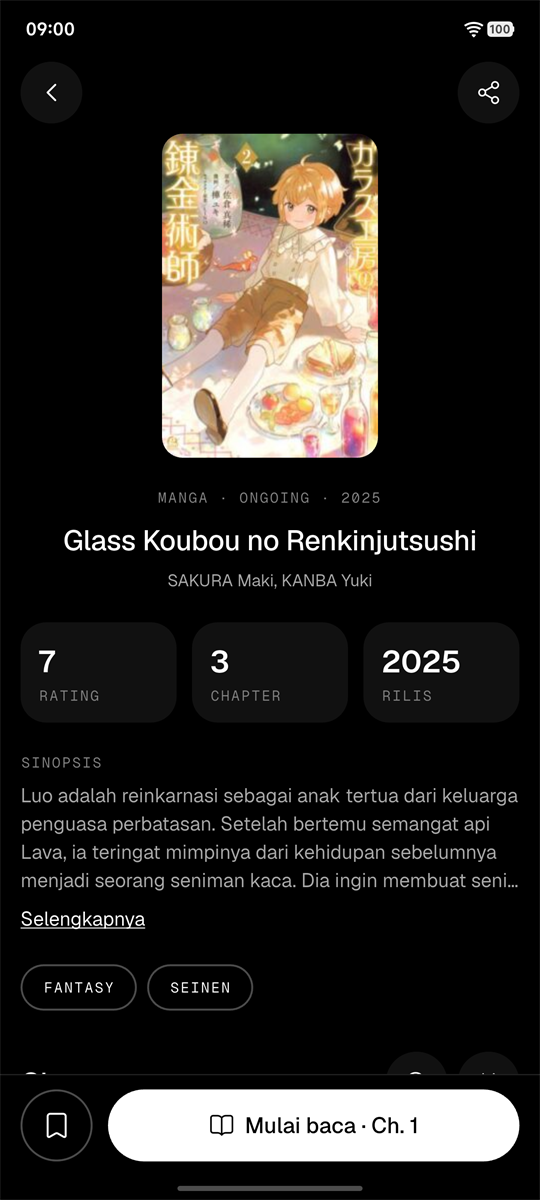
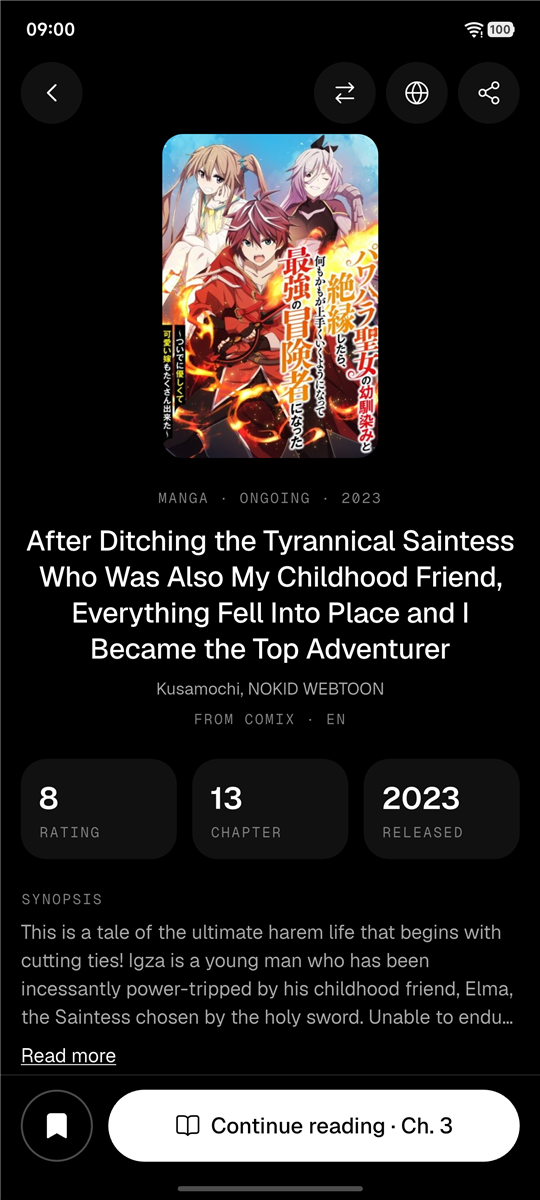
chore(release): v2.0.0
Release notes, and README screenshots retaken on a real device for 2.0.0 (sources, extensions and Mihon import added).

diff --git a/README.md b/README.md
@@ -8,19 +8,23 @@ Get the APK from the [Releases](https://github.com/sofyan-rs/bacakomik-app-flutt
 
 ## Screenshots
 
-| Splash | Home | Explore | Filter |
+| Splash | Home | Sources | Explore |
 |---|---|---|---|
-| <img src="screenshot/splash.png" width="200" alt="Splash screen"> | <img src="screenshot/home.png" width="200" alt="Home: continue reading, new series, latest chapters"> | <img src="screenshot/explore.png" width="200" alt="Explore: title search, type and cover grid"> | <img src="screenshot/filter.png" width="200" alt="Filter sheet: type, status, sort and genres"> |
+| <img src="screenshot/splash.png" width="200" alt="Splash screen"> | <img src="screenshot/home.png" width="200" alt="Home: continue reading, new series, latest updates"> | <img src="screenshot/sources.png" width="200" alt="Source picker with the installed sources"> | <img src="screenshot/explore.png" width="200" alt="Explore: title search, format and cover grid"> |
 
-| Detail | Reader | Bookmarks | History |
+| Filter | Detail | Reader | Bookmarks |
 |---|---|---|---|
-| <img src="screenshot/detail.png" width="200" alt="Comic details with stats, synopsis and genres"> | <img src="screenshot/reader.png" width="200" alt="Reader with chapter bar and page meter"> | <img src="screenshot/bookmark.png" width="200" alt="Bookmarks with new chapter badge and read meter"> | <img src="screenshot/history.png" width="200" alt="Reading history grouped by day"> |
+| <img src="screenshot/filter.png" width="200" alt="Filter sheet: sort, format, status and genres"> | <img src="screenshot/detail.png" width="200" alt="Comic details with source, stats and synopsis"> | <img src="screenshot/reader.png" width="200" alt="Reader with chapter bar and page meter"> | <img src="screenshot/bookmark.png" width="200" alt="Bookmarks with language and new chapter badges and read meter"> |
 
-| More | Download chapters | Downloads | Light theme |
+| History | Extensions | Import from Mihon | More |
 |---|---|---|---|
-| <img src="screenshot/more.png" width="200" alt="Stats, downloads, backup, Google Drive sync and theme"> | <img src="screenshot/download-select.png" width="200" alt="Selecting chapters to download for offline reading"> | <img src="screenshot/downloads.png" width="200" alt="Downloads grouped by comic with storage used"> | <img src="screenshot/home-light.png" width="200" alt="Home in the light theme"> |
+| <img src="screenshot/history.png" width="200" alt="Reading history grouped by day, with the source"> | <img src="screenshot/extensions.png" width="200" alt="Installed extensions"> | <img src="screenshot/mihon-import.png" width="200" alt="Import from a Mihon backup, per source"> | <img src="screenshot/more.png" width="200" alt="Stats, extensions, library, backup and sync"> |
 
-Screenshots were taken on a real device (iQOO I2218, Android 16) running v1.5.0, before sources and extensions.
+| Download chapters | Downloads | Light theme |
+|---|---|---|
+| <img src="screenshot/download-select.png" width="200" alt="Selecting chapters to download for offline reading"> | <img src="screenshot/downloads.png" width="200" alt="Download queue and downloads grouped by comic"> | <img src="screenshot/home-light.png" width="200" alt="Home in the light theme"> |
+
+Screenshots were taken on a real device (iQOO I2218, Android 16) running v2.0.0.
 
 ## Features
 

diff --git a/.github/release-notes/v2.0.0.md b/.github/release-notes/v2.0.0.md
@@ -1,0 +1,24 @@
+## Changes
+
+### Sources and extensions
+- Comics now come from **sources**: small extensions the app installs, so a new or changed site no longer needs an app update. BacaKomik and VoraToon are built in; add MangaDex, MangaFire, ReiManga, WestManga and Comix from **More → Extensions**. Installed extensions show a badge when an update is available.
+- Pick the source in the header of Home or Explore. Each source keeps its own bookmarks and history, and covers and comic pages show the source and language.
+- MangaDex shows one source per language you turn on, for example MangaDex (EN) and MangaDex (ID).
+- When a site asks for a bot check, open it in the built-in WebView and pass it; the app then reuses the check. Sites that only work in a real browser are read in the background, without any action.
+- A comic whose source is not installed offers to install it.
+
+### Library
+- Make your own categories and group bookmarks by status, source or category. A comic can be in several categories.
+- Pull to refresh in Bookmarks checks the comics on screen for new chapters. Stop it with **Cancel** in the notification or the stop button at the top. A comic that takes too long is skipped.
+- Home's list is now called **Latest updates**.
+
+### Migration
+Open **More → Backup & sync → Migration**:
+- **Migrate source:** move one comic, a selection or a whole source to another source. Each title is searched in the new source; exact matches are picked for you, and you choose the rest. Reading history and categories move along.
+- **Import from Mihon / Tachiyomi:** pick a `.tachibk` backup. Bookmarks from sources BacaKomik has are imported with their categories and the chapters you read.
+- **Import from Comix.to:** pick the CSV export of your Comix.to library. Titles are searched in the Comix source, one at a time.
+- Imported comics load their cover and chapters when you open them or refresh, and the chapters you had read are marked read then. A series you already bookmarked from another source is not added twice.
+
+### Fixes
+- The app no longer gets stuck on the splash screen after importing a comic with a very long name; the library is repaired automatically.
+- A site check passed in the WebView now takes effect right away.
